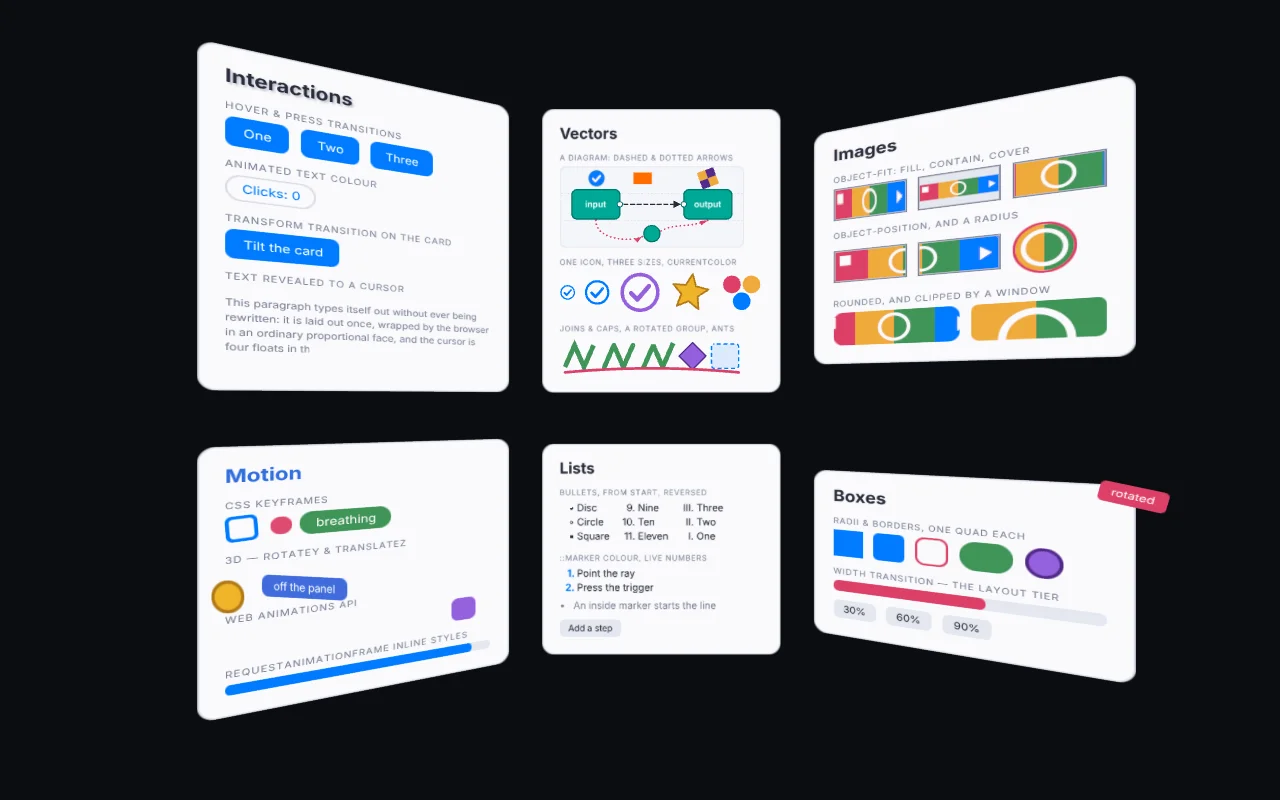
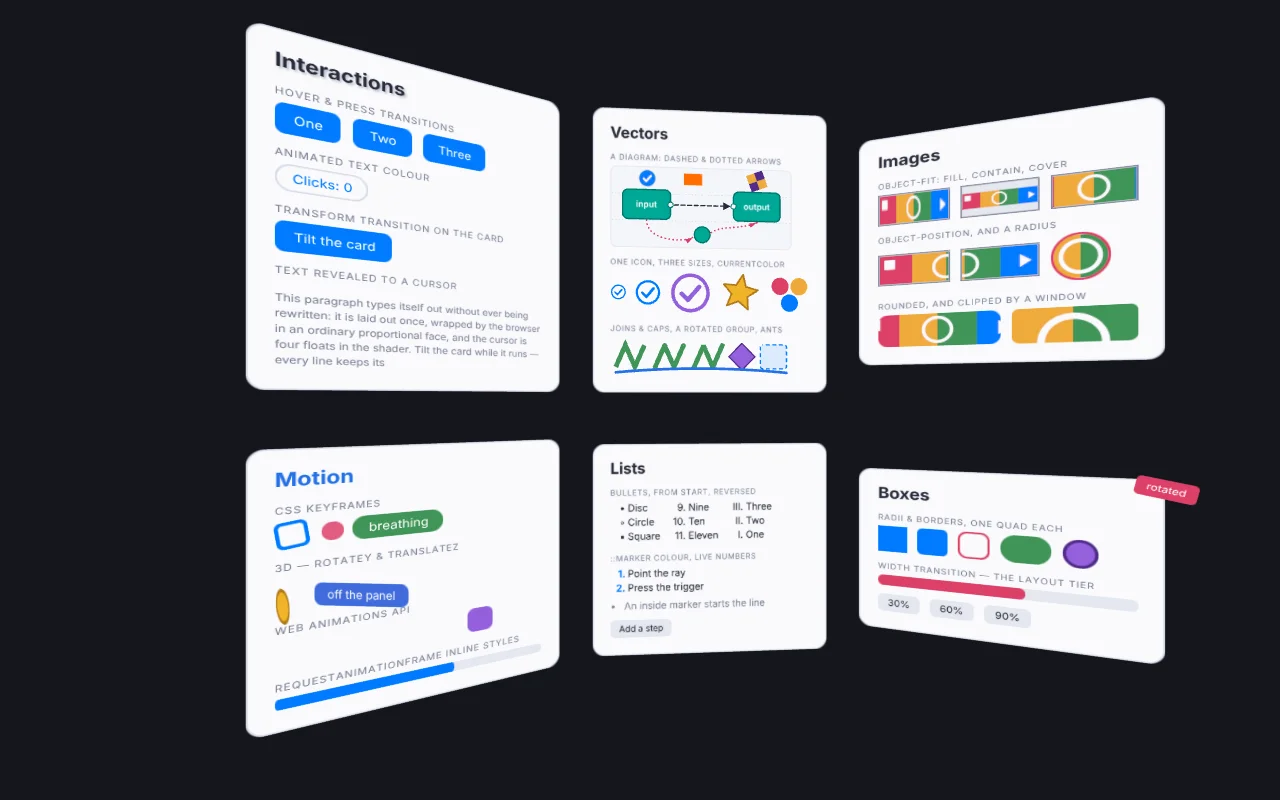
site: sway the head in the headset clips and cut out redraw waits
Three things the maintainer saw in the headset clips. The desk's fps
readout showed for its first frames, because `tidy` hid it in the DOM
but the clip started before its panel redrew. `tidy` now waits for
that panel's portal to stop being busy.

Euclid's clip stood still for seconds after each six-line step while
the panels redrew. It now sets the program a line of code at a time,
and `encode` holds no frame of a headset clip longer than `STALL`, so
a redraw wait is cut out of the clip.

The head stood still in every headset clip. `sway` now moves it from
side to side about its view while the clip records, turning to keep
the panels in sight, except in castle's, where the head aims.

Claude-Session: https://claude.ai/code/session_017kTM4dAsSK6gwcciadTpBR

Changed region(s): [[0.1562, 0.0312, 0.9375, 0.5], [0.1562, 0.5312, 0.9375, 0.9375], [0.5312, 0.8125, 0.5938, 0.8438]]

diff --git a/site/README.md b/site/README.md
@@ -43,10 +43,12 @@ own). Castle has the headset clip alone, of the castle knocked about with the sl
 page is the same scene with nothing to do in it. Minesweeper and Knights, a few moves in, have the
 page clip alone, since the headset does not draw their boards right yet; `setups` in
 `scripts/screenshots.mjs` says what it gets wrong. In the headset the script presses an app's
-controls through their DOM, which the panels mirror, so no controller ray shows in a clip. It also
-takes the todo app on a page and in an emulated headset for the guide. Run it by hand when a demo
-changes how it looks or behaves, after `rush build --to justdom-site`. With app folder names after
-`--` it records only those, and `guide` names the guide's two.
+controls through their DOM, which the panels mirror, so no controller ray shows in a clip. The head
+sways slowly from side to side while it records, except in Castle, where it aims the slingshot, and
+a wait for the panels to redraw is cut short in the clip. It also takes the todo app on a page and
+in an emulated headset for the guide. Run it by hand when a demo changes how it looks or behaves,
+after `rush build --to justdom-site`. With app folder names after `--` it records only those, and
+`guide` names the guide's two.
 
 The clips are animated WebP, encoded by `ffmpeg`, which has to be on the `PATH` and built with
 libwebp (the Debian and Ubuntu packages are). Animated WebP is an `<img>`, so a clip loads lazily,
